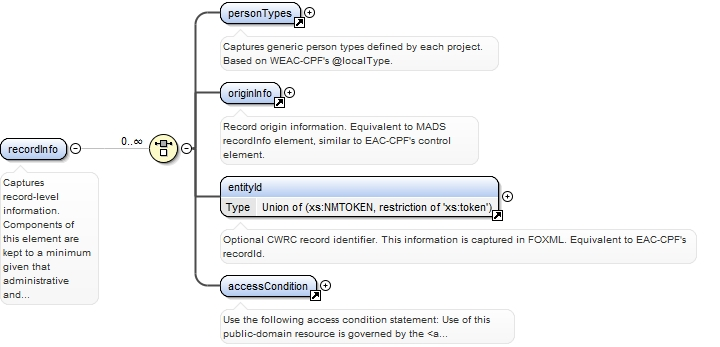
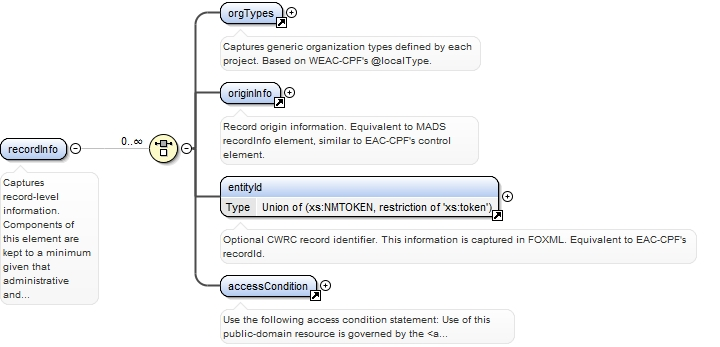
New entities.rng documentation [MRB]

Changed region(s): [[0.3056, 0.1153, 0.6722, 0.2017], [0.3056, 0.0, 0.4583, 0.0865]]

diff --git a/schemas/documentation/entities/index.html b/schemas/documentation/entities/index.html
@@ -2912,6 +2912,20 @@ var modelBoxes= new Array('model_cwrc',
                                  </tr>
                                  <tr>
                                     <td class="firstColumn">enumeration</td>
+                                    <td width="30%"><b>orlandoStandardName</b></td>
+                                    <td>
+                                       <div class="annotation"></div>
+                                    </td>
+                                 </tr>
+                                 <tr>
+                                    <td class="firstColumn">enumeration</td>
+                                    <td width="30%"><b>birthName</b></td>
+                                    <td>
+                                       <div class="annotation"></div>
+                                    </td>
+                                 </tr>
+                                 <tr>
+                                    <td class="firstColumn">enumeration</td>
                                     <td width="30%"><b>descriptive</b></td>
                                     <td>
                                        <div class="annotation">
@@ -2963,6 +2977,20 @@ var modelBoxes= new Array('model_cwrc',
                                        </div>
                                     </td>
                                  </tr>
+                                 <tr>
+                                    <td class="firstColumn">enumeration</td>
+                                    <td width="30%"><b>deprecated</b></td>
+                                    <td>
+                                       <div class="annotation"></div>
+                                    </td>
+                                 </tr>
+                                 <tr>
+                                    <td class="firstColumn">enumeration</td>
+                                    <td width="30%"><b>historic</b></td>
+                                    <td>
+                                       <div class="annotation"></div>
+                                    </td>
+                                 </tr>
                               </table>
                            </div>
                         </td>
@@ -3009,6 +3037,8 @@ var modelBoxes= new Array('model_cwrc',
       </span><span class="tEl">&lt;xs:enumeration</span><span class="tAN"> value=</span><span class="tAV">"selfConstructedName"</span><span class="tEl">/&gt;</span><span class="tI">
       </span><span class="tEl">&lt;xs:enumeration</span><span class="tAN"> value=</span><span class="tAV">"styledName"</span><span class="tEl">/&gt;</span><span class="tI">
       </span><span class="tEl">&lt;xs:enumeration</span><span class="tAN"> value=</span><span class="tAV">"titledName"</span><span class="tEl">/&gt;</span><span class="tI">
+      </span><span class="tEl">&lt;xs:enumeration</span><span class="tAN"> value=</span><span class="tAV">"orlandoStandardName"</span><span class="tEl">/&gt;</span><span class="tI">
+      </span><span class="tEl">&lt;xs:enumeration</span><span class="tAN"> value=</span><span class="tAV">"birthName"</span><span class="tEl">/&gt;</span><span class="tI">
       </span><span class="tEl">&lt;xs:enumeration</span><span class="tAN"> value=</span><span class="tAV">"descriptive"</span><span class="tEl">&gt;</span><span class="tI">
         </span><span class="tEl">&lt;xs:annotation</span><span class="tEl">&gt;</span><span class="tI">
           </span><span class="tEl">&lt;xs:documentation</span><span class="tEl">&gt;</span><span class="tT" style="white-space:normal">e.g., Women's Aid Society</span><span class="tEl">&lt;/xs:documentation&gt;</span><span class="tI">
@@ -3029,6 +3059,8 @@ var modelBoxes= new Array('model_cwrc',
           </span><span class="tEl">&lt;xs:documentation</span><span class="tEl">&gt;</span><span class="tT" style="white-space:normal">e.g., Edmonton,Edmontona,Edmontonas,Edmontono,Edmundopolis,Edmuntun,Ehdmonton</span><span class="tEl">&lt;/xs:documentation&gt;</span><span class="tI">
         </span><span class="tEl">&lt;/xs:annotation&gt;</span><span class="tI">
       </span><span class="tEl">&lt;/xs:enumeration&gt;</span><span class="tI">
+      </span><span class="tEl">&lt;xs:enumeration</span><span class="tAN"> value=</span><span class="tAV">"deprecated"</span><span class="tEl">/&gt;</span><span class="tI">
+      </span><span class="tEl">&lt;xs:enumeration</span><span class="tAN"> value=</span><span class="tAV">"historic"</span><span class="tEl">/&gt;</span><span class="tI">
     </span><span class="tEl">&lt;/xs:restriction&gt;</span><span class="tI">
   </span><span class="tEl">&lt;/xs:simpleType&gt;</span><span class="tI">
 </span><span class="tEl">&lt;/xs:element&gt;</span></pre></td>
@@ -3309,6 +3341,11 @@ var modelBoxes= new Array('model_cwrc',
           </span><span class="tEl">&lt;xs:enumeration</span><span class="tAN"> value=</span><span class="tAV">"GeoNames"</span><span class="tEl">&gt;</span><span class="tI">
             </span><span class="tEl">&lt;xs:annotation</span><span class="tEl">&gt;</span><span class="tI">
               </span><span class="tEl">&lt;xs:documentation</span><span class="tEl">&gt;</span><span class="tT" style="white-space:normal">GeoNames</span><span class="tEl">&lt;/xs:documentation&gt;</span><span class="tI">
+            </span><span class="tEl">&lt;/xs:annotation&gt;</span><span class="tI">
+          </span><span class="tEl">&lt;/xs:enumeration&gt;</span><span class="tI">
+          </span><span class="tEl">&lt;xs:enumeration</span><span class="tAN"> value=</span><span class="tAV">"emic"</span><span class="tEl">&gt;</span><span class="tI">
+            </span><span class="tEl">&lt;xs:annotation</span><span class="tEl">&gt;</span><span class="tI">
+              </span><span class="tEl">&lt;xs:documentation</span><span class="tEl">&gt;</span><span class="tT" style="white-space:normal">emic</span><span class="tEl">&lt;/xs:documentation&gt;</span><span class="tI">
             </span><span class="tEl">&lt;/xs:annotation&gt;</span><span class="tI">
           </span><span class="tEl">&lt;/xs:enumeration&gt;</span><span class="tI">
           </span><span class="tEl">&lt;xs:enumeration</span><span class="tAN"> value=</span><span class="tAV">"orlando"</span><span class="tEl">&gt;</span><span class="tI">
@@ -6459,7 +6496,7 @@ var modelBoxes= new Array('model_cwrc',
                            <div class="floatRight"><input id="button_diagram_personRecordInfo-element_recordInfo" type="image" src="img/btM.gif" value="-" onclick="switchState('diagram_personRecordInfo-element_recordInfo');" class="control" /></div>
                         </td>
                         <td class="diagram">
-                           <div id="diagram_personRecordInfo-element_recordInfo" style="display:block"><img alt="Diagram" border="0" src="img/entities_xsd_Element_recordInfo_2.jpeg" usemap="#entities_xsd_Element_recordInfo_2" /><map name="entities_xsd_Element_recordInfo_2" id="entities_xsd_Element_recordInfo_2">
+                           <div id="diagram_personRecordInfo-element_recordInfo" style="display:block"><img alt="Diagram" border="0" src="img/entities_xsd_Element_recordInfo.jpeg" usemap="#entities_xsd_Element_recordInfo" /><map name="entities_xsd_Element_recordInfo" id="entities_xsd_Element_recordInfo">
                                  <area alt="index.tmp#personTypes" href="index.html#personTypes" coords="220,2,315,27" />
                                  <area alt="index.tmp#originInfo" href="index.html#originInfo" coords="220,82,295,107" />
                                  <area alt="index.tmp#entityId" href="index.html#entityId" coords="220,176,513,220" />
@@ -8305,7 +8342,7 @@ var modelBoxes= new Array('model_cwrc',
                            <div class="floatRight"><input id="button_diagram_orgRecordInfo-element_recordInfo" type="image" src="img/btM.gif" value="-" onclick="switchState('diagram_orgRecordInfo-element_recordInfo');" class="control" /></div>
                         </td>
                         <td class="diagram">
-                           <div id="diagram_orgRecordInfo-element_recordInfo" style="display:block"><img alt="Diagram" border="0" src="img/entities_xsd_Element_recordInfo.jpeg" usemap="#entities_xsd_Element_recordInfo" /><map name="entities_xsd_Element_recordInfo" id="entities_xsd_Element_recordInfo">
+                           <div id="diagram_orgRecordInfo-element_recordInfo" style="display:block"><img alt="Diagram" border="0" src="img/entities_xsd_Element_recordInfo_2.jpeg" usemap="#entities_xsd_Element_recordInfo_2" /><map name="entities_xsd_Element_recordInfo_2" id="entities_xsd_Element_recordInfo_2">
                                  <area alt="index.tmp#orgTypes" href="index.html#orgTypes" coords="220,2,297,27" />
                                  <area alt="index.tmp#originInfo" href="index.html#originInfo" coords="220,82,295,107" />
                                  <area alt="index.tmp#entityId" href="index.html#entityId" coords="220,176,513,220" />
